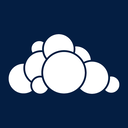
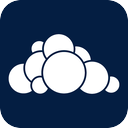
Brands: round the ownCloud and OpenCloud tiles

diff --git a/data/brands/README.md b/data/brands/README.md
@@ -29,3 +29,13 @@ and re-run:
 magick -background none -density 400 data/brands/src/NAME.svg -resize 128x128 \
   -gravity center -extent 128x128 data/brands/NAME.png
 ```
+
+The ownCloud and OpenCloud marks are square tiles; they get the corner
+radius the other tile-shaped icons in the app have (20 px on 128), and
+nothing else changes:
+
+```sh
+magick data/brands/src/NAME.* -resize 128x128 \
+  \( -size 128x128 xc:none -draw "roundrectangle 0,0,127,127,20,20" \) \
+  -alpha set -compose DstIn -composite data/brands/NAME.png
+```
